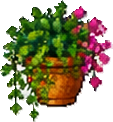
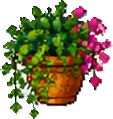
Peel the light halo off the Saffron Market pieces; compare v5 with the new team-sheet version
The pieces' edges lost the light fringe of the sheet's checkerboard (visible on dark backgrounds). New sheet
compare_v5_vs_new_sizes.png: both Saffron Market concepts, their traces, and the cut pieces at real sizes.

diff --git a/design/pixel-art/cut_sheet.py b/design/pixel-art/cut_sheet.py
@@ -45,8 +45,8 @@ def foreground(part: np.ndarray) -> np.ndarray:
     edge = set(np.unique(np.concatenate([labels[0], labels[-1], labels[:, 0], labels[:, -1]]))) - {0}
     big = {k for k in range(1, n) if stats[k, cv2.CC_STAT_AREA] > 150}
     solid = ~np.isin(labels, list(edge | big))
-    fringe = (rgb.min(axis=2) > 170) & (rgb.max(axis=2) - rgb.min(axis=2) < 35)
-    for _ in range(2):                                                # peel the light fringe, a pixel at a time
+    fringe = (rgb.min(axis=2) > 140) & (rgb.max(axis=2) - rgb.min(axis=2) < 45)
+    for _ in range(3):                                                # peel the light fringe, a pixel at a time
         near = cv2.dilate((~solid).astype(np.uint8), np.ones((3, 3), np.uint8)).astype(bool)
         solid &= ~(near & fringe)
     return cv2.morphologyEx(solid.astype(np.uint8), cv2.MORPH_OPEN, np.ones((2, 2), np.uint8)).astype(bool)
